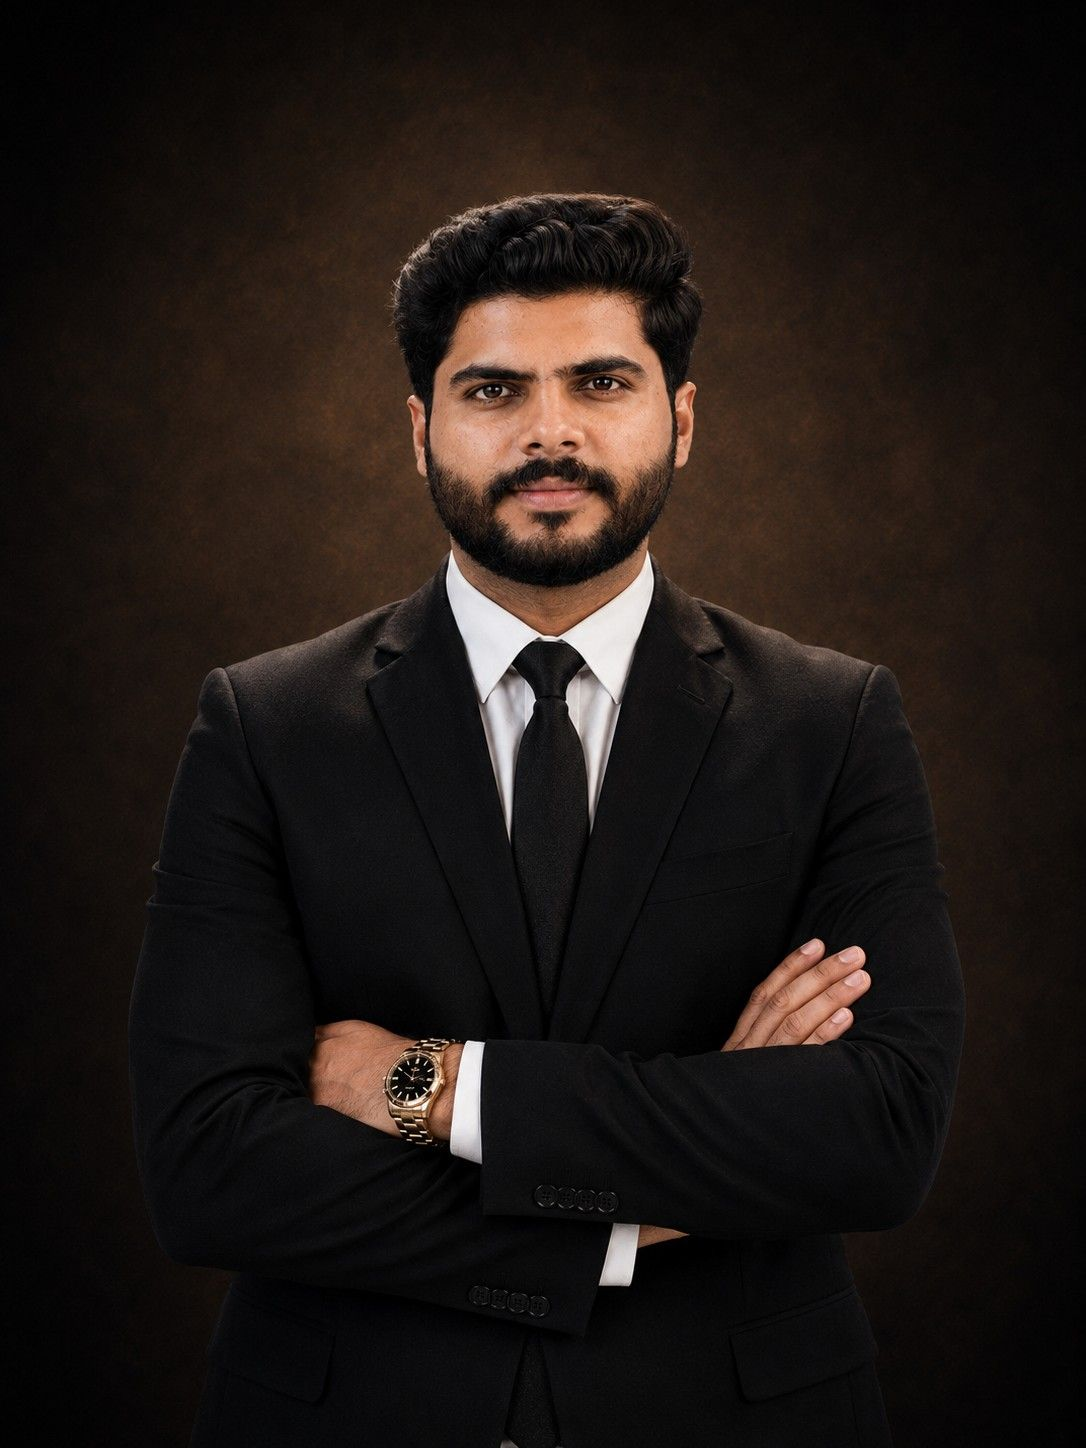
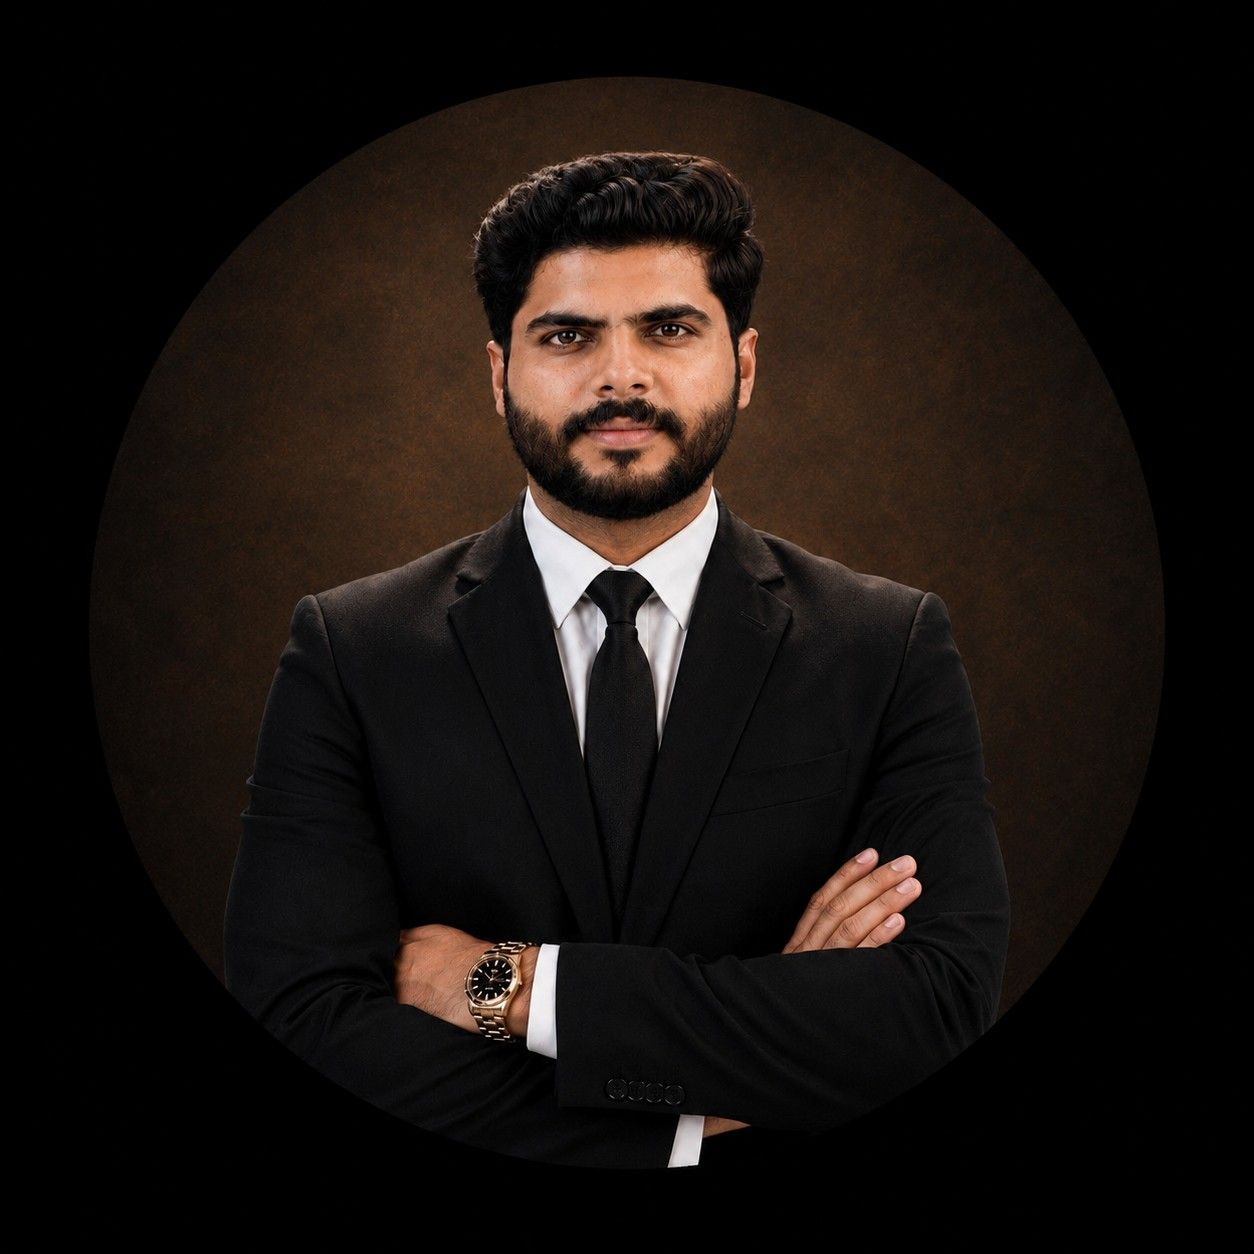
Resume page updated

diff --git a/src/app/resume/page.jsx b/src/app/resume/page.jsx
@@ -20,13 +20,15 @@ import {
   SiGraphql,
   SiPostgresql,
   SiShopify,
+  SiPrisma,
+  SiReactrouter,
 } from "react-icons/si";
 
 // about data
 const about = {
   title: "About me",
   description:
-    "I’m not just a developer — I’m a problem solver, a creative thinker, and a continuous learner. With a strong foundation in the MERN stack, Shopify App Development and real-world experience through projects, I bring ideas to life through clean, efficient, and scalable code.I don’t just build websites; I build solutions that make an impact. Whether it's debugging a tricky issue or crafting seamless user experiences, I bring energy, curiosity, and dedication to every line of code. I’m now looking for the next challenge where I can contribute, collaborate, and create with purpose.",
+    "I’m not just a developer — I’m a problem solver, a creative thinker, and a continuous learner. With a strong foundation in the MERN stack, Shopify App Development and real-world experience through projects, I bring ideas to life through clean, efficient, and scalable code.I don’t just build applications. I build solutions that make an impact. Whether it's debugging a tricky issue or crafting seamless user experiences, I bring energy, curiosity, and dedication to every line of code. I’m now looking for the next challenge where I can contribute, collaborate, and create with purpose.",
   info: [
     {
       fieldName: "Name",
@@ -38,7 +40,7 @@ const about = {
     },
     {
       fieldName: "Experience",
-      fieldValue: "9+ Months",
+      fieldValue: "1+ Years",
     },
     {
       fieldName: "Email",
@@ -59,28 +61,28 @@ const experience = {
   icon: "/assets/resume/badge.svg",
   title: "My Experience",
   description: (
-    <ul className="list-disc pl-5 space-y-3">
+    <ul className="list-disc pl-5 space-y-3 marker:text-[#00FF99]">
       <li>
-        <b>Kineteck — Full Time</b>
+        <b style={{ color: "#00FF99" }}>Kineteck — Full Time</b>
         <br />
-        <b>
+        <b style={{ color: "#FFFFFF" }}>
           Jr. MERN Stack Developer | Shopify App Developer (Nov 2025 – Present)
         </b>
         <br />
-        Developed Embedded Shopify apps using React.js, Node.js/Remix, and Express.js.
-        Integrated Shopify APIs (GraphQL) and worked with pgSQL database while
-        writing clean, reusable code.
+        Developed Embedded Shopify apps using React Router, Remix, React.js,
+        Node.js, and Express.js with Shopify App Template. Integrated Shopify
+        APIs (GraphQL) and worked with Prisma and pgSQL database while writing
+        clean, reusable code.
       </li>
 
       <li>
-        <b>Three Arrows — Internship</b>
+        <b style={{ color: "#00FF99" }}>Three Arrows — Internship</b>
         <br />
-        <b>Full Stack Web Developer (July 2025 – Oct 2025)</b>
+        <b style={{ color: "#FFFFFF" }}>Full Stack Web Developer (July 2025 – Oct 2025)</b>
         <br />
         Built responsive web applications with React & Next.js and developed
         REST APIs using Node.js and Express.js. Created reusable UI components.
       </li>
-     
     </ul>
   ),
 };
@@ -94,8 +96,21 @@ const education = {
   items: [
     {
       institution: "GC University Faisalabad",
-      degree: "Pursuing BS Computer Science (BSCS)",
+      degree: "BS Computer Science (BSCS)",
+      CGPA: "3.5/4.0",
       duration: "2022 - 2026",
+    },
+    {
+      institution: "Govt. Degree College Khurrianwala",
+      degree: "FSC Pre-Engineering",
+      Grade: "A",
+      duration: "2019 - 2021",
+    },
+    {
+      institution: "Govt. High School 100RB",
+      degree: "Matriculation",
+      grade: "A",
+      duration: "2017 - 2019",
     },
     {
       institution: "Edify College Of IT",
@@ -107,11 +122,6 @@ const education = {
       degree: "Certification in MS Office",
       duration: "2021",
     },
-    {
-      institution: "Govt. Degree College Khurrianwala",
-      degree: "FSC Pre-Engineering",
-      duration: "2019 - 2021",
-    },
   ],
 };
 
@@ -119,7 +129,7 @@ const education = {
 const skills = {
   title: "My skills",
   description:
-    "Proficient in modern web development technologies with a strong command over the MERN stack, Next.js, Responsive UI design and Shopify App Development.",
+    "Proficient in modern development technologies with a strong command over the MERN stack, Next.js, Responsive UI design and Shopify App Development.",
   skillList: [
     {
       icon: <FaHtml5 />,
@@ -185,6 +195,14 @@ const skills = {
       icon: <SiCplusplus />,
       name: "C++",
     },
+    {
+      icon: <SiPrisma />,
+      name: "Prisma",
+    },
+    {
+      icon: <SiReactrouter />,
+      name: "React Router",
+    },
   ],
 };
 
@@ -226,9 +244,9 @@ const Resume = () => {
             <TabsContent value="experience" className="w-full">
               <div className="flex flex-col gap-[30px] text-center xl:text-left">
                 <h3 className="text-4xl font-bold">{experience.title}</h3>
-                <p className="max-w-[600px] text-white/60 mx-auto xl:mx-0">
+                <div className="max-w-[600px] text-white/60 mx-auto xl:mx-0">
                   {experience.description}
-                </p>
+                </div>
               </div>
             </TabsContent>
             {/* education */}
@@ -244,12 +262,22 @@ const Resume = () => {
                       return (
                         <li
                           key={index}
-                          className="bg-[#232329] h-[184px] py-6 px-10 rounded-xl flex flex-col justify-center items-center lg:items-start gap-1 "
+                          className="bg-[#232329] min-h-[184px] py-6 px-10 rounded-xl flex flex-col justify-center items-center lg:items-start gap-1 "
                         >
                           <span className="text-accent">{item.duration}</span>
                           <h3 className="text-xl max-w-[260px] min-w-[260px] min-h-[60px] text-center lg:text-left">
                             {item.degree}
                           </h3>
+                          {item.CGPA && (
+                            <p className="text-white/60 text-sm">
+                              CGPA: {item.CGPA}
+                            </p>
+                          )}
+                          {(item.Grade || item.grade) && (
+                            <p className="text-white/60 text-sm">
+                              Grade: {item.Grade || item.grade}
+                            </p>
+                          )}
                           <div className="flex items-center gap-3">
                             {/* dot */}
                             <span className="w-[6px] h-[6px] rounded-full bg-accent"></span>

diff --git a/src/components/Photo.jsx b/src/components/Photo.jsx
@@ -23,7 +23,7 @@ const Photo = () => {
           className="w-[298px] h-[298px] xl:w-[498px] xl:h-[498px] mix-blend-lighten absolute"
         >
           <Image
-            src="/assets/profile-img.png"
+            src="/assets/profile-img.jpeg"
             priority
             quality={100}
             fill